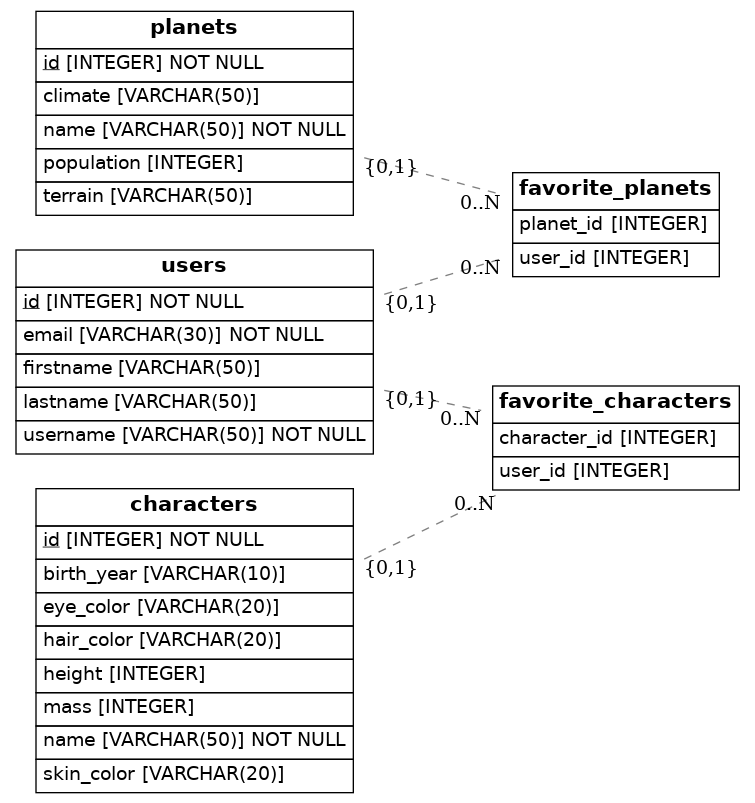
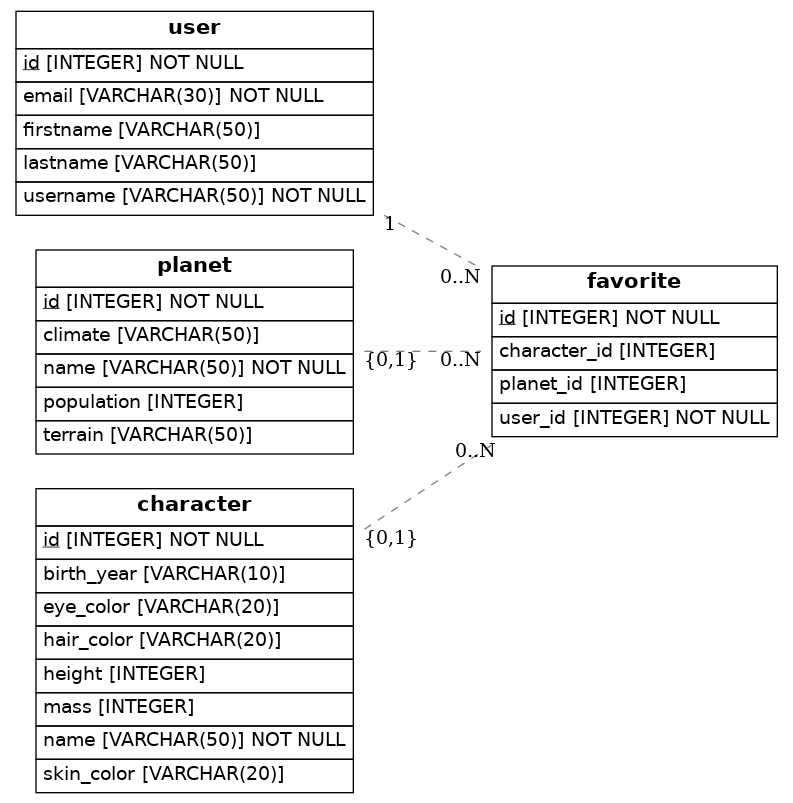
listo

diff --git a/src/models.py b/src/models.py
@@ -8,26 +8,27 @@ from eralchemy2 import render_er  # type: ignore
 Base = declarative_base()
 
 class User(Base):
-    __tablename__ = 'users'
+    __tablename__ = 'user'
     id = Column(Integer, primary_key=True)
     username = Column(String(50), unique=True, nullable=False)
     firstname = Column(String(50))
     lastname = Column(String(50))
     email = Column(String(30), unique=True, nullable=False)
-    favorite_planets = relationship('Planet', secondary='favorite_planets')
-    favorite_characters = relationship('Character', secondary='favorite_characters')
+    favorite = relationship('Favorite', backref='user', lazy=True)
+ 
 
 class Planet(Base):
-    __tablename__ = 'planets'
+    __tablename__ = 'planet'
     id = Column(Integer, primary_key=True)
     name = Column(String(50), nullable=False)
     climate = Column(String(50))
     terrain = Column(String(50))
     population = Column(Integer)
-    users = relationship('User', secondary='favorite_planets')
+    favorite = relationship('Favorite', backref='planet', lazy=True)
+   
 
 class Character(Base):
-    __tablename__ = 'characters'
+    __tablename__ = 'character'
     id = Column(Integer, primary_key=True)
     name = Column(String(50), nullable=False)
     height = Column(Integer)
@@ -36,20 +37,16 @@ class Character(Base):
     skin_color = Column(String(20))
     eye_color = Column(String(20))
     birth_year = Column(String(10))
-    users = relationship('User', secondary='favorite_characters')
+    favorite = relationship('Favorite', backref='character', lazy=True)
+  
+
+class Favorite(Base):
+    __tablename__='favorite'
+    id= Column (Integer,primary_key=True)
+    user_id = Column(Integer,ForeignKey('user.id'),nullable=False)
+    planet_id = Column(Integer,ForeignKey('planet.id'),nullable=True)
+    character_id = Column(Integer,ForeignKey('character.id'),nullable=True)
 
 
-
-favorite_planets = Table('favorite_planets', Base.metadata,
-    Column('user_id', Integer, ForeignKey('users.id')),
-    Column('planet_id', Integer, ForeignKey('planets.id'))
-)
-
-favorite_characters = Table('favorite_characters', Base.metadata,
-    Column('user_id', Integer, ForeignKey('users.id')),
-    Column('character_id', Integer, ForeignKey('characters.id'))
-)
-
-# Generate the ER diagram
 render_er(Base, 'diagram.png')
 
